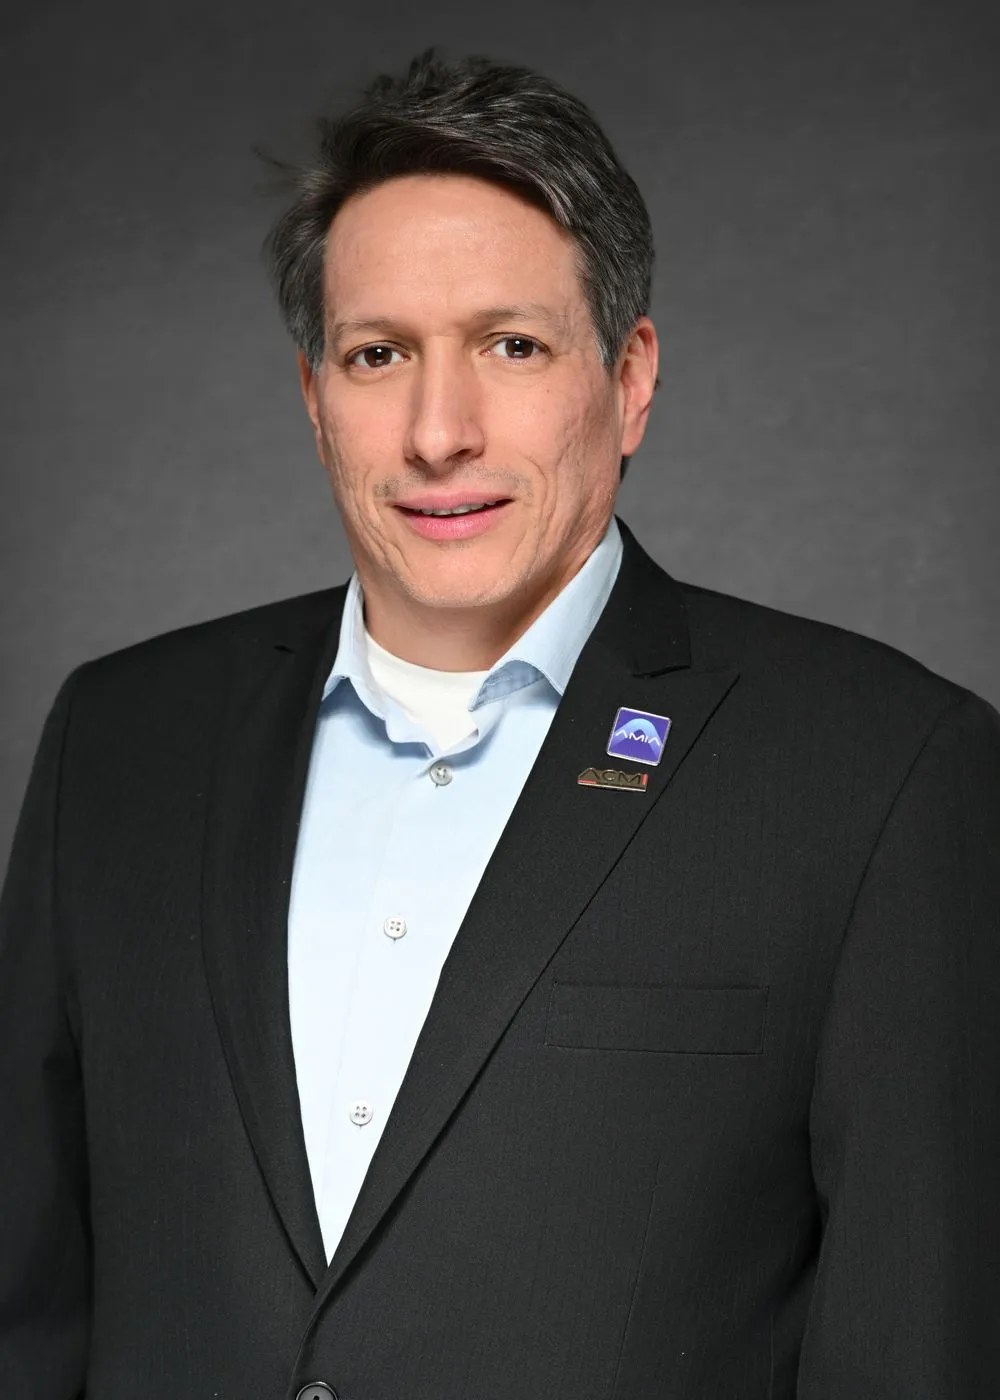
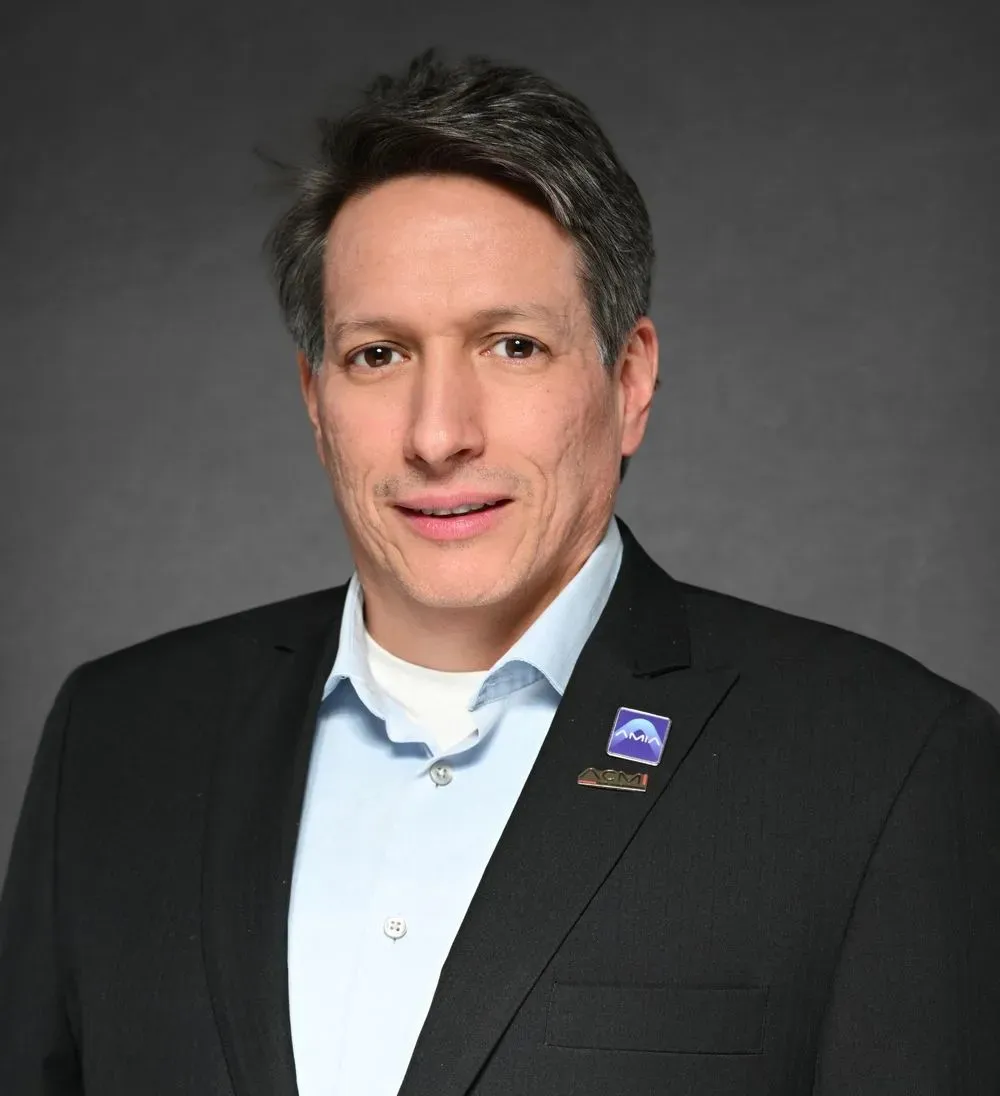
Fix: Agregación de contactos de cada miembro de la red e incorporacion de fotos

diff --git a/pages/equipo.html b/pages/equipo.html
@@ -34,7 +34,7 @@
               <img src="../assets/images/members_bi4dt/Pamela Chacon.webp" class="member-img">
               <div class="member-img-overlay"></div>
             </div>
-            <a href="investigacion.html?id=pamela-chacon&cat=investigadores" class="member-name member-name-link">Pamela Chacón</a>
+            <a href="investigacion.html?id=pamela-chacon&cat=investigadores" class="member-name member-name-link">Pamela Chacón Uscamaita</a>
             <div class="member-role">Universidad Científica del Sur</div>
           </div>
           
@@ -43,7 +43,7 @@
               <img src="../assets/images/members_bi4dt/David Villareal.webp" class="member-img">
               <div class="member-img-overlay"></div>
             </div>
-            <a href="investigacion.html?id=david-villarreal&cat=investigadores" class="member-name member-name-link">David Villarreal</a>
+            <a href="investigacion.html?id=david-villarreal&cat=investigadores" class="member-name member-name-link">David Villarreal Zegarra</a>
             <div class="member-role">Universidad Científica del Sur</div>
           </div>
           
@@ -52,7 +52,7 @@
               <img src="../assets/images/members_bi4dt/Mahony Reategui.webp" class="member-img">
               <div class="member-img-overlay"></div>
             </div>
-            <a href="investigacion.html?id=christian-reategui&cat=investigadores" class="member-name member-name-link">Christian Reátegui</a>
+            <a href="investigacion.html?id=christian-reategui&cat=investigadores" class="member-name member-name-link">Christian Reategui Rivera</a>
             <div class="member-role">Universidad Científica del Sur</div>
           </div>
           
@@ -61,7 +61,7 @@
               <img src="../assets/images/members_bi4dt/Henry Cardenas.webp" class="member-img">
               <div class="member-img-overlay"></div>
             </div>
-            <a href="investigacion.html?id=henry-cardenas&cat=investigadores" class="member-name member-name-link">Henry Cárdenas</a>
+            <a href="investigacion.html?id=henry-cardenas&cat=investigadores" class="member-name member-name-link">Henry Cárdenas Campoverde</a>
             <div class="member-role">Universidad San Francisco de Quito</div>
           </div>
           
@@ -70,16 +70,16 @@
               <img src="../assets/images/members_bi4dt/Irvin Dongo.webp" class="member-img">
               <div class="member-img-overlay"></div>
             </div>
-            <a href="investigacion.html?id=irvin-dongo&cat=investigadores" class="member-name member-name-link">Irvin Dongo</a>
+            <a href="investigacion.html?id=irvin-dongo&cat=investigadores" class="member-name member-name-link">Irvin Benito Dongo</a>
             <div class="member-role">Universidad Católica San Pablo</div>
           </div>
           
           <div class="equipo-member-card">
             <div class="member-image-container">
-              <img src="../assets/images/members_bi4dt/user.webp" class="member-img">
+              <img src="../assets/images/members_bi4dt/Rafael Leal.webp" class="member-img">
               <div class="member-img-overlay"></div>
             </div>
-            <a href="investigacion.html?id=rafael-leal&cat=investigadores" class="member-name member-name-link">Rafael Leal</a>
+            <a href="investigacion.html?id=rafael-leal&cat=investigadores" class="member-name member-name-link">Rafael Leal Zavala</a>
             <div class="member-role">Instituto Nacional de Salud</div>
           </div>
           
@@ -88,7 +88,7 @@
               <img src="../assets/images/members_bi4dt/Oscar Huapaya.webp" class="member-img">
               <div class="member-img-overlay"></div>
             </div>
-            <a href="investigacion.html?id=oscar-huapaya&cat=investigadores" class="member-name member-name-link">Oscar Huapaya</a>
+            <a href="investigacion.html?id=oscar-huapaya&cat=investigadores" class="member-name member-name-link">Oscar Huapaya Huertas</a>
             <div class="member-role">Universidad Científica del Sur</div>
           </div>
           
@@ -97,7 +97,7 @@
               <img src="../assets/images/members_bi4dt/user.webp" class="member-img">
               <div class="member-img-overlay"></div>
             </div>
-            <a href="investigacion.html?id=javier-vargas&cat=investigadores" class="member-name member-name-link">Javier Vargas</a>
+            <a href="investigacion.html?id=javier-vargas&cat=investigadores" class="member-name member-name-link">Javier Vargas Herrera</a>
             <div class="member-role">Universidad Nacional Mayor de San Marcos</div>
           </div>
           
@@ -106,16 +106,16 @@
               <img src="../assets/images/members_bi4dt/Milagros Cahuana.webp" class="member-img">
               <div class="member-img-overlay"></div>
             </div>
-            <a href="investigacion.html?id=milagros-cahuana&cat=investigadores" class="member-name member-name-link">Milagros Cahuana</a>
+            <a href="investigacion.html?id=milagros-cahuana&cat=investigadores" class="member-name member-name-link">Milagros Cahuana Cuentas</a>
             <div class="member-role">Universidad Católica San Pablo</div>
           </div>
           
           <div class="equipo-member-card">
             <div class="member-image-container">
-              <img src="../assets/images/members_bi4dt/user.webp" class="member-img">
+              <img src="../assets/images/members_bi4dt/Guido Bendezu.webp" class="member-img">
               <div class="member-img-overlay"></div>
             </div>
-            <a href="investigacion.html?id=guido-bendezu&cat=investigadores" class="member-name member-name-link">Guido Bendezú</a>
+            <a href="investigacion.html?id=guido-bendezu&cat=investigadores" class="member-name member-name-link">Guido Bendezú Quispe</a>
             <div class="member-role">Procesa Lab S.A.C.</div>
           </div>
           
@@ -124,7 +124,7 @@
               <img src="../assets/images/members_bi4dt/Jose Florez.webp" class="member-img">
               <div class="member-img-overlay"></div>
             </div>
-            <a href="investigacion.html?id=jose-florez&cat=investigadores" class="member-name member-name-link">José Flórez</a>
+            <a href="investigacion.html?id=jose-florez&cat=investigadores" class="member-name member-name-link">José Flórez Arango</a>
             <div class="member-role">The University of Arizona</div>
           </div>
           
@@ -133,16 +133,16 @@
               <img src="../assets/images/members_bi4dt/Stefan Escobar.webp" class="member-img">
               <div class="member-img-overlay"></div>
             </div>
-            <a href="investigacion.html?id=stefan-escobar&cat=investigadores" class="member-name member-name-link">Stefan Escobar</a>
+            <a href="investigacion.html?id=stefan-escobar&cat=investigadores" class="member-name member-name-link">Stefan Escobar Agreda</a>
             <div class="member-role">Universidad Científica del Sur</div>
           </div>
           
           <div class="equipo-member-card">
             <div class="member-image-container">
-              <img src="../assets/images/members_bi4dt/user.webp" class="member-img">
+              <img src="../assets/images/members_bi4dt/Kelly de la Cruz.webp" class="member-img">
               <div class="member-img-overlay"></div>
             </div>
-            <a href="investigacion.html?id=kelly-de-la-cruz&cat=investigadores" class="member-name member-name-link">Kelly De La Cruz</a>
+            <a href="investigacion.html?id=kelly-de-la-cruz&cat=investigadores" class="member-name member-name-link">Kelly De La Cruz Torralva</a>
             <div class="member-role">Universidad Nacional Mayor de San Marcos</div>
           </div>
 
@@ -151,7 +151,7 @@
               <img src="../assets/images/members_bi4dt/user.webp" class="member-img">
               <div class="member-img-overlay"></div>
             </div>
-            <a href="investigacion.html?id=gerson-zapata&cat=gestion" class="member-name member-name-link">Gerson Zapata</a>
+            <a href="investigacion.html?id=gerson-zapata&cat=gestion" class="member-name member-name-link">Gerson Zapata Cordova</a>
             <div class="member-role">Universidad Científica del Sur</div>
           </div>
           
@@ -160,7 +160,7 @@
               <img src="../assets/images/members_bi4dt/Adriana Echevarria.webp" class="member-img">
               <div class="member-img-overlay"></div>
             </div>
-            <a href="investigacion.html?id=adriana-echevarria&cat=gestion" class="member-name member-name-link">Adriana Echevarría</a>
+            <a href="investigacion.html?id=adriana-echevarria&cat=gestion" class="member-name member-name-link">Adriana Echevarria Goche</a>
             <div class="member-role">Instituto Nacional de Salud</div>
           </div>
         </div>
@@ -172,10 +172,10 @@
         <div class="equipo-grid">
           <div class="equipo-member-card">
             <div class="member-image-container">
-              <img src="../assets/images/members_bi4dt/user.webp" class="member-img">
+              <img src="../assets/images/members_bi4dt/Lizeth Guzman.webp" class="member-img">
               <div class="member-img-overlay"></div>
             </div>
-            <a href="estudiante.html?id=lizeth-guzman" class="member-name member-name-link">Lizeth Guzmán</a>
+            <a href="estudiante.html?id=lizeth-guzman" class="member-name member-name-link">Lizeth Guzmán Lázaro</a>
             <div class="member-role">Universidad Científica del Sur</div>
           </div>
           
@@ -184,7 +184,7 @@
               <img src="../assets/images/members_bi4dt/user.webp" class="member-img">
               <div class="member-img-overlay"></div>
             </div>
-            <a href="estudiante.html?id=selene-salas" class="member-name member-name-link">Selene Salas</a>
+            <a href="estudiante.html?id=selene-salas" class="member-name member-name-link">Selene Salas Reymundo</a>
             <div class="member-role">Universidad Científica del Sur</div>
           </div>
           
@@ -193,7 +193,7 @@
               <img src="../assets/images/members_bi4dt/Rodrigo Chacon.webp" class="member-img">
               <div class="member-img-overlay"></div>
             </div>
-            <a href="estudiante.html?id=rodrigo-chacon" class="member-name member-name-link">Rodrigo Chacón</a>
+            <a href="estudiante.html?id=rodrigo-chacon" class="member-name member-name-link">Rodrigo Chacón Uscamaita</a>
             <div class="member-role">Universidad Ricardo Palma</div>
           </div>
         </div>

diff --git a/scripts/investigacion.js b/scripts/investigacion.js
@@ -138,13 +138,10 @@ document.addEventListener('DOMContentLoaded', async () => {
       return;
     }
 
-    // Obtener proyectos asociados por ID o por integración directa
+    // Obtener proyectos vinculados mediante el campo integrantes de proyectos.json
     const todosProyectos = datosProyectos.proyectos || [];
-    const idsAsociados = Array.isArray(miembro.proyectos) ? miembro.proyectos : [];
     const proyectosDelInvestigador = todosProyectos.filter(p => {
-      if (idsAsociados.includes(p.id)) return true;
-      if (Array.isArray(p.integrantes) && p.integrantes.includes(miembro.id)) return true;
-      return false;
+      return Array.isArray(p.integrantes) && p.integrantes.includes(miembro.id);
     });
 
     miembroActualGlobal = miembro;
@@ -171,8 +168,8 @@ function renderPerfil(m, categoria, proyectosReales) {
 
   // Actualizar título del navegador
   document.title = isEn
-    ? `${m.nombre} - Research Profile | BI4DT Network`
-    : `${m.nombre} - Perfil de Investigación | Red BI4DT`;
+    ? `${m.nombre} | BI4DT Network`
+    : `${m.nombre} | BI4DT Network`;
 
   // Etiqueta de categoría
   const labelEl = document.getElementById('perfil-categoria');
@@ -197,11 +194,9 @@ function renderPerfil(m, categoria, proyectosReales) {
   }
 
   // Datos básicos con soporte bilingüe
-  const cargoTexto = isEn ? (m.cargo_en || m.cargo) : m.cargo;
   const descTexto = isEn ? (m.descripcion_en || m.descripcion) : m.descripcion;
 
   setTexto('perfil-nombre', m.nombre);
-  setTexto('perfil-cargo', cargoTexto);
   setTexto('perfil-institucion', m.institucion);
   setTexto('perfil-descripcion', descTexto);
 

diff --git a/scripts/estudiante.js b/scripts/estudiante.js
@@ -122,13 +122,10 @@ document.addEventListener('DOMContentLoaded', async () => {
       return;
     }
 
-    // Obtener proyectos asociados al estudiante
+    // Obtener proyectos vinculados mediante el campo integrantes de proyectos.json
     const todosProyectos = datosProyectos.proyectos || [];
-    const idsAsociados = Array.isArray(miembro.proyectos) ? miembro.proyectos : [];
     const proyectosDelEstudiante = todosProyectos.filter(p => {
-      if (idsAsociados.includes(p.id)) return true;
-      if (Array.isArray(p.integrantes) && p.integrantes.includes(miembro.id)) return true;
-      return false;
+      return Array.isArray(p.integrantes) && p.integrantes.includes(miembro.id);
     });
 
     estudianteActualGlobal = miembro;
@@ -155,8 +152,8 @@ function renderPerfil(m, proyectosReales) {
 
   // Título de la pestaña
   document.title = isEn
-    ? `${m.nombre} - Profile | BI4DT Network`
-    : `${m.nombre} - Perfil | Red BI4DT`;
+    ? `${m.nombre} | BI4DT Network`
+    : `${m.nombre} | BI4DT Network`;
 
   // Foto
   const fotoEl = document.getElementById('perfil-foto');

diff --git a/assets/data/diagrama_datos.md b/assets/data/diagrama_datos.md
@@ -42,12 +42,10 @@ erDiagram
     MIEMBRO {
         string id PK "Identificador único del investigador (slug)"
         string nombre "Nombre y apellidos completos"
-        string cargo "Investigador Principal | Co-investigador | Responsable Técnico"
         string institucion FK "Nombre de institución de adscripción"
         string foto "Ruta local del recurso de imagen webp"
         string descripcion "Perfil profesional, trayectoria y biografía científica"
         string categoria "investigadores | gestion | estudiantes"
-        string[] proyectos FK "Array de IDs de proyectos en los que participa"
     }
 
     PROYECTO {
@@ -122,7 +120,7 @@ erDiagram
 | Relación | Implementación Técnica | Flujo de Usuario en la Web |
 | :--- | :--- | :--- |
 | **Proyecto ↔ Área** | `PROYECTO.area_id` → `AREA.id` | En `proyectos.html` se filtra por línea. En `proyecto-detalle.html` el badge enlaza a `area.html?id=...`. En `area.html` se listan los proyectos de esa línea. |
-| **Proyecto ↔ Miembro (N:M)** | `PROYECTO.integrantes[]` ↔ `MIEMBRO.proyectos[]` | En `proyecto-detalle.html` se muestra el equipo con fotos y cargos que enlazan a `investigacion.html?id=...`. En `investigacion.html` el perfil muestra los proyectos del miembro con enlaces a `proyecto-detalle.html?id=...`. |
+| **Proyecto ↔ Miembro (N:M)** | `PROYECTO.integrantes[]` → `MIEMBRO.id` | En `proyecto-detalle.html` se muestra el equipo con fotos que enlazan a `investigacion.html?id=...`. En `investigacion.html` el perfil muestra los proyectos del miembro filtrando por `p.integrantes.includes(m.id)`. |
 | **Proyecto ↔ Institución** | `PROYECTO.instituciones[]` ↔ `INSTITUCION.nombre` | En `proyecto-detalle.html` la ficha técnica muestra las instituciones socias del proyecto. |
 | **Miembro ↔ Institución** | `MIEMBRO.institucion` → `INSTITUCION.nombre` | En las tarjetas de miembro y en el perfil del investigador se indica su universidad o centro de investigación. |
 | **Institución ↔ Mapa de Red** | `INSTITUCION.pais_id` y `INSTITUCION.coords` | En `quienes.html` el mapa de OpenStreetMap sitúa los nodos y al hacer clic en un país el panel lateral despliega sus instituciones aliadas. |
